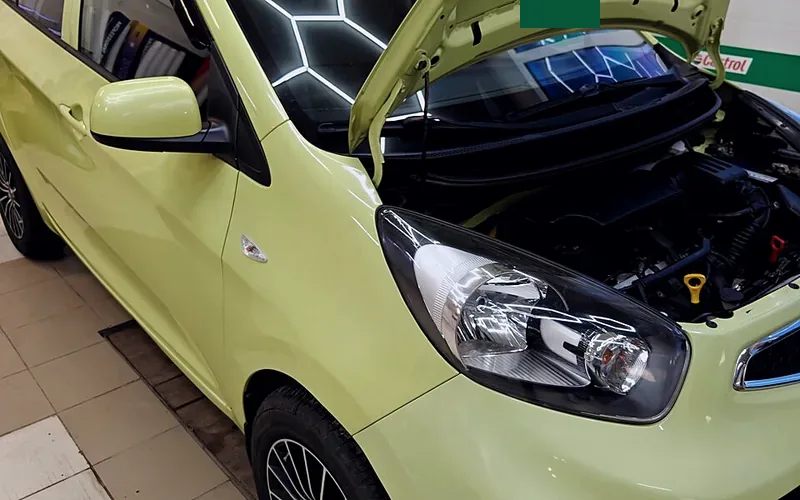
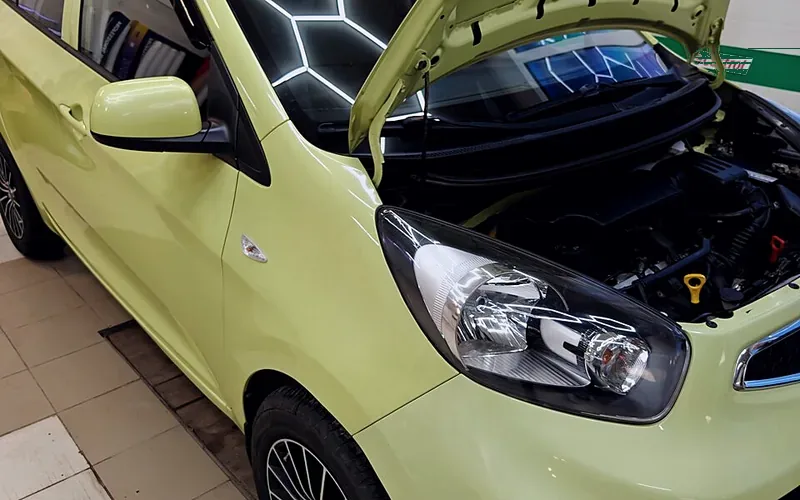
fix(works): remove Castrol from lime Picanto work-08 and Changan work-14
Restore both from f3dc0fe and repaint only inside the green stripes.
Add castrol-stripe-local.py for reproducible edits on full and -800 assets.

Changed region(s): [[0.625, 0.0, 0.75, 0.06], [0.875, 0.09, 0.9375, 0.15]]

diff --git a/tools/castrol-stripe-local.py b/tools/castrol-stripe-local.py
@@ -1,0 +1,246 @@
+#!/usr/bin/env python3
+"""Точечное снятие Castrol в пределах зелёной полосы."""
+from __future__ import annotations
+
+import subprocess
+import tempfile
+from pathlib import Path
+
+import cv2
+import numpy as np
+from PIL import Image
+
+GREEN_LO = np.array([42, 65, 30])
+GREEN_HI = np.array([92, 255, 175])
+REF = "f3dc0fe"
+
+
+def git_bgr(rel: str) -> np.ndarray:
+    data = subprocess.check_output(["git", "show", f"{REF}:{rel}"])
+    tmp = tempfile.NamedTemporaryFile(suffix=".webp", delete=False)
+    tmp.write(data)
+    tmp.close()
+    bgr = cv2.cvtColor(np.array(Image.open(tmp.name).convert("RGB")), cv2.COLOR_RGB2BGR)
+    Path(tmp.name).unlink(missing_ok=True)
+    return bgr
+
+
+def save_webp(path: Path, bgr: np.ndarray) -> None:
+    Image.fromarray(cv2.cvtColor(bgr, cv2.COLOR_BGR2RGB)).save(
+        path, "WEBP", quality=82, method=6
+    )
+
+
+def is_logo(px: np.ndarray) -> bool:
+    h, s, v = int(px[0]), int(px[1]), int(px[2])
+    if v >= 165 and s <= 78:
+        return True
+    if (h <= 12 or h >= 168) and s >= 85:
+        return True
+    return False
+
+
+def fill_horizontal_band_rows(
+    bgr: np.ndarray, y0: int, y1: int, x0: int, x1: int, fixed_span: bool = False
+) -> int:
+    h, w = bgr.shape[:2]
+    hsv = cv2.cvtColor(bgr, cv2.COLOR_BGR2HSV)
+    green = cv2.inRange(hsv, GREEN_LO, GREEN_HI)
+    touched = 0
+    y0, y1 = max(0, y0), min(h, y1)
+    x0, x1 = max(0, x0), min(w, x1)
+    for y in range(y0, y1):
+        row = green[y, x0:x1]
+        runs: list[tuple[int, int]] = []
+        i = 0
+        while i < row.shape[0]:
+            if not row[i]:
+                i += 1
+                continue
+            j = i
+            while j < row.shape[0] and row[j]:
+                j += 1
+            if j - i >= 3:
+                runs.append((x0 + i, x0 + j - 1))
+            i = j
+        if not runs:
+            continue
+        merged: list[tuple[int, int]] = [runs[0]]
+        for s, e in runs[1:]:
+            ps, pe = merged[-1]
+            if s - pe <= 95:
+                merged[-1] = (ps, e)
+            else:
+                merged.append((s, e))
+        span = max(merged, key=lambda r: r[1] - r[0])
+        greens = [bgr[y, x] for x in range(span[0], span[1] + 1) if green[y, x]]
+        if len(greens) < 2:
+            continue
+        fill = np.median(greens, axis=0).astype(np.uint8)
+        s, e = span[0], span[1]
+        while e + 1 < w and not green[y, e + 1] and is_logo(hsv[y, e + 1]):
+            e += 1
+        for x in range(s, e + 1):
+            if green[y, x]:
+                continue
+            b, g, r = (int(bgr[y, x][0]), int(bgr[y, x][1]), int(bgr[y, x][2]))
+            if not (
+                is_logo(hsv[y, x])
+                or green[y, max(0, x - 1)]
+                or green[y, min(w - 1, x + 1)]
+                or (r > 115 and g < 115 and b < 140)
+            ):
+                continue
+            bgr[y, x] = fill
+            touched += 1
+    return touched
+
+
+def fill_work14_stripe(bgr: np.ndarray) -> int:
+    h, w = bgr.shape[:2]
+    b0 = bgr.copy()
+    hsv0 = cv2.cvtColor(b0, cv2.COLOR_BGR2HSV)
+    green0 = cv2.inRange(hsv0, GREEN_LO, GREEN_HI)
+    y0, y1 = int(h * 0.412), int(h * 0.465)
+    x1 = int(w * 0.14)
+    stripe_band = cv2.dilate(green0, np.ones((9, 9), np.uint8), iterations=2)
+    mask = np.zeros((h, w), np.uint8)
+    touched = 0
+    for y in range(y0, min(y1, h)):
+        for x in range(0, x1):
+            if not stripe_band[y, x]:
+                continue
+            b, g, r = (int(b0[y, x][0]), int(b0[y, x][1]), int(b0[y, x][2]))
+            if is_logo(hsv0[y, x]) or (r > 115 and g < 115 and b < 140):
+                mask[y, x] = 255
+                touched += 1
+    if touched:
+        mask = cv2.bitwise_and(mask, stripe_band)
+        painted = cv2.inpaint(b0, mask, 2, cv2.INPAINT_TELEA)
+        for y in range(y0, min(y1, h)):
+            for x in range(0, x1):
+                if stripe_band[y, x]:
+                    bgr[y, x] = painted[y, x]
+                else:
+                    bgr[y, x] = b0[y, x]
+    return touched
+
+
+def patch_logo_near_stripe(
+    bgr: np.ndarray, x0: int, y0: int, x1: int, y1: int, reach: int = 12
+) -> int:
+    h, w = bgr.shape[:2]
+    hsv = cv2.cvtColor(bgr, cv2.COLOR_BGR2HSV)
+    green = cv2.inRange(hsv, GREEN_LO, GREEN_HI)
+    touched = 0
+    y0, y1 = max(0, y0), min(h, y1)
+    x0, x1 = max(0, x0), min(w, x1)
+    for y in range(y0, y1):
+        row = green[y, x0:x1]
+        runs: list[tuple[int, int]] = []
+        i = 0
+        while i < row.shape[0]:
+            if not row[i]:
+                i += 1
+                continue
+            j = i
+            while j < row.shape[0] and row[j]:
+                j += 1
+            if j - i >= 3:
+                runs.append((x0 + i, x0 + j - 1))
+            i = j
+        for s, e in runs:
+            greens = [bgr[y, x] for x in range(s, e + 1) if green[y, x]]
+            if len(greens) < 2:
+                continue
+            fill = np.median(greens, axis=0).astype(np.uint8)
+            while e + 1 < w and not green[y, e + 1] and is_logo(hsv[y, e + 1]) and e + 1 <= s + 55:
+                e += 1
+            while s - 1 >= 0 and not green[y, s - 1] and is_logo(hsv[y, s - 1]):
+                s -= 1
+            for x in range(s, e + 1):
+                if green[y, x]:
+                    continue
+                bgr[y, x] = fill
+                touched += 1
+    return touched
+
+
+def fill_diagonal_stripe(
+    bgr: np.ndarray, x0: int, y0: int, x1: int, y1: int, pad: int = 6
+) -> int:
+    h, w = bgr.shape[:2]
+    hsv = cv2.cvtColor(bgr, cv2.COLOR_BGR2HSV)
+    green = cv2.inRange(hsv, GREEN_LO, GREEN_HI)
+    rx0, ry0 = max(0, x0 - pad), max(0, y0 - pad)
+    rx1, ry1 = min(w, x1 + pad), min(h, y1 + pad)
+    ys, xs = np.where(green[ry0:ry1, rx0:rx1])
+    if len(xs) < 25:
+        return 0
+    pts = np.column_stack(
+        [xs.astype(np.float32) + rx0, ys.astype(np.float32) + ry0]
+    )
+    line = cv2.fitLine(pts, cv2.DIST_L2, 0, 0.01, 0.01)
+    vx, vy, cx, cy = (line[i].item() for i in range(4))
+    norm = (vx**2 + vy**2) ** 0.5
+    perps = [abs((float(x) - cx) * vy - (float(y) - cy) * vx) / norm for x, y in pts]
+    half_w = float(np.percentile(perps, 88)) + 0.5
+    paras = [(float(x) - cx) * vx + (float(y) - cy) * vy for x, y in pts]
+    p0, p1 = min(paras) - 3, max(paras) + 3
+    touched = 0
+    step = 0.45
+    t = p0
+    while t <= p1:
+        bx, by = cx + vx * t, cy + vy * t
+        samples = []
+        for d in np.linspace(-half_w, half_w, int(2 * half_w) + 1):
+            x = int(round(bx - vy * d / norm))
+            y = int(round(by + vx * d / norm))
+            if not (rx0 <= x < rx1 and ry0 <= y < ry1):
+                continue
+            samples.append((x, y))
+        greens = [bgr[y, x] for x, y in samples if green[y, x]]
+        if len(greens) < 2:
+            t += step
+            continue
+        fill = np.median(greens, axis=0).astype(np.uint8)
+        for x, y in samples:
+            if green[y, x]:
+                continue
+            bgr[y, x] = fill
+            touched += 1
+        t += step
+    return touched
+
+
+def main() -> None:
+    b8 = git_bgr("images/works/work-08.webp")
+    n8 = fill_horizontal_band_rows(b8, 54, 107, 818, 960)
+    save_webp(Path("images/works/work-08.webp"), b8)
+    bf = git_bgr("images/works/work-08.webp")
+    b800 = git_bgr("images/works/work-08-800.webp")
+    sh, sw = b800.shape[0] / bf.shape[0], b800.shape[1] / bf.shape[1]
+    n800 = fill_horizontal_band_rows(
+        b800,
+        int(54 * sh),
+        int(107 * sh),
+        int(818 * sw),
+        int(960 * sw),
+    )
+    save_webp(Path("images/works/work-08-800.webp"), b800)
+
+    b14 = git_bgr("images/works/work-14.webp")
+    n14 = fill_work14_stripe(b14)
+    save_webp(Path("images/works/work-14.webp"), b14)
+    bf14 = git_bgr("images/works/work-14.webp")
+    b14_800 = git_bgr("images/works/work-14-800.webp")
+    sh, sw = b14_800.shape[0] / bf14.shape[0], b14_800.shape[1] / bf14.shape[1]
+    n14_800 = fill_work14_stripe(b14_800)
+    save_webp(Path("images/works/work-14-800.webp"), b14_800)
+
+    print(f"work-08: {n8} / work-08-800: {n800}")
+    print(f"work-14: {n14} / work-14-800: {n14_800}")
+
+
+if __name__ == "__main__":
+    main()
